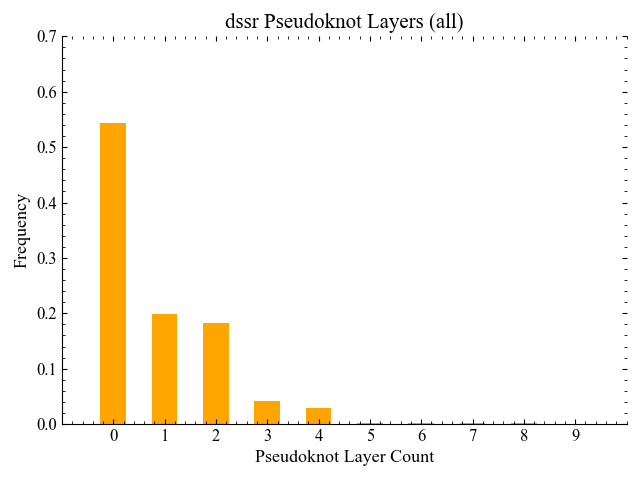
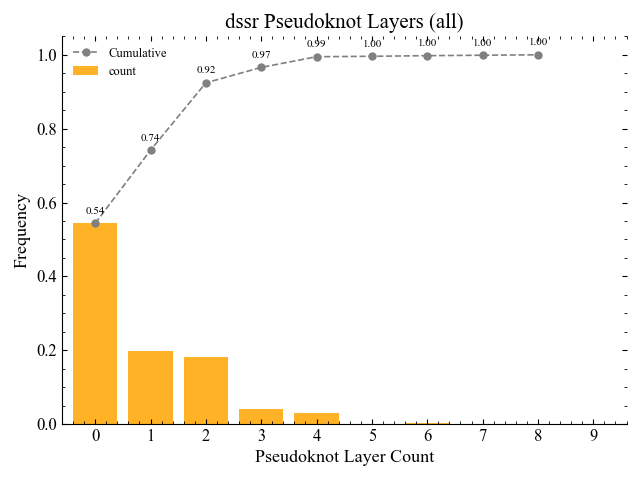
累積度数かいた

diff --git a/analysis/pseudoknotlayer_plotting.py b/analysis/pseudoknotlayer_plotting.py
@@ -316,25 +316,33 @@ def main():
             else: 
                 pass
 
-            # (b) pseudoknot layer 数の頻度棒グラフ
-            freq = df['num_of_layers'].value_counts(normalize=True).sort_index()
+            # (b) pseudoknot layer 数の頻度棒グラフ + 累積度数ライン
+            freq_counts = df['num_of_layers'].value_counts().sort_index()
+            freq = (freq_counts / freq_counts.sum()).sort_index()
+            cumulative = freq.cumsum()
             plt.figure()
-            ax = freq.plot.bar( color = "orange")
+            ax = freq.plot.bar(color="orange", alpha=0.85, width=0.8)
             ax.set_xlabel('Pseudoknot Layer Count', fontsize=13)
             ax.set_xticks([int(x) for x in range(freq.index.max() + 1)])
             ax.set_xticklabels([int(x) for x in (range(freq.index.max() + 1))], rotation=0 , fontsize=12)
             ax.tick_params(axis='y', labelsize=12)
-            
-            ax.set_xlim(-1, freq.index.max()+1)  # x 軸の範囲を 0 から最大値に設定
-            # plt.xlim(0, 10)
+            ax.set_xlim(-0.6, freq.index.max()+0.6)
             plt.ylabel('Frequency', fontsize=13)
-            # y の表示領域を 0 から 0.7 に固定
-            plt.ylim(0, 0.7)
+            # 累積度数ライン（同じ y 軸: 正規化なので 0→1）
+            ax.plot(cumulative.index - 1, cumulative.values, color='gray', marker='o', linewidth=1.2, markersize=5, label='Cumulative', linestyle='--')
+            # 各累積点に軽く値を表示（上から重ねて）
+            for x, y in zip(cumulative.index, cumulative.values):
+                ax.text(x - 1, y + 0.02, f"{y:.2f}", ha='center', va='bottom', fontsize=8, color='black')
+            # y の表示領域（最大 1 を超えないように）
+            cum_max = float(cumulative.max()) if len(cumulative) else 0.0
+            top = max(0.7, cum_max)
+            ax.set_ylim(0, min(1.05, top + 0.08))
             plt.title(f'{parser} Pseudoknot Layers ({variant})', fontsize=15)
+            ax.legend(frameon=False, fontsize=9, loc='upper left', markerscale=1.0)
             plt.tight_layout()
             fn = f'bar_pseudoknot_layers_{variant}.png'
             plt.savefig(os.path.join(output_dir, parser, fn))
-            print(f"Saved bar graph for {parser} ({variant}) to {output_dir / parser / fn}")
+            print(f"Saved bar+cumulative graph for {parser} ({variant}) to {output_dir / parser / fn}")
             plt.close()
             # 追加呼び出し: non-canonical 比率箱ひげ
             plot_non_canonical_ratio_box(df, parser, variant, output_dir=output_dir / parser, show_mean=True)
